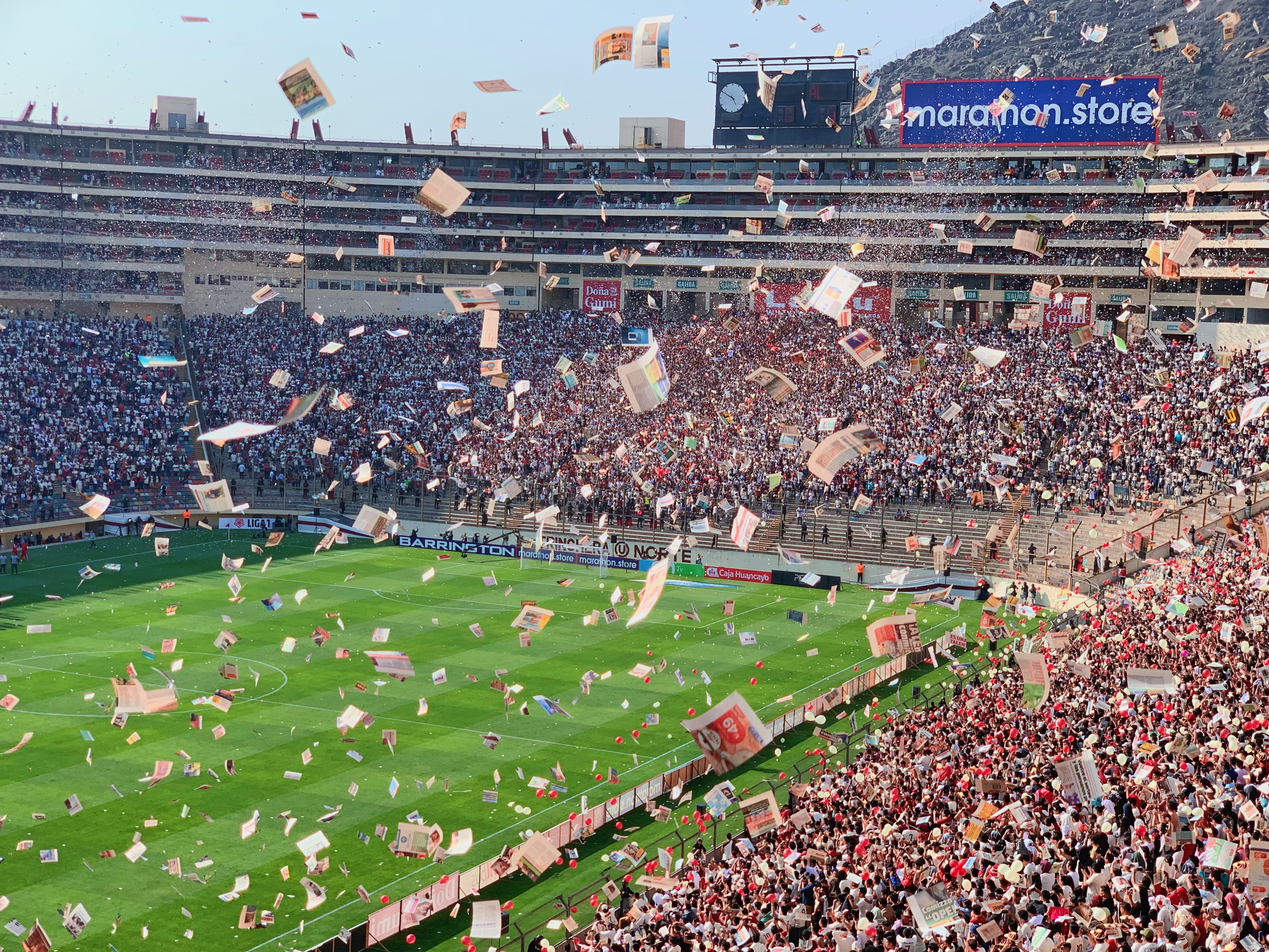
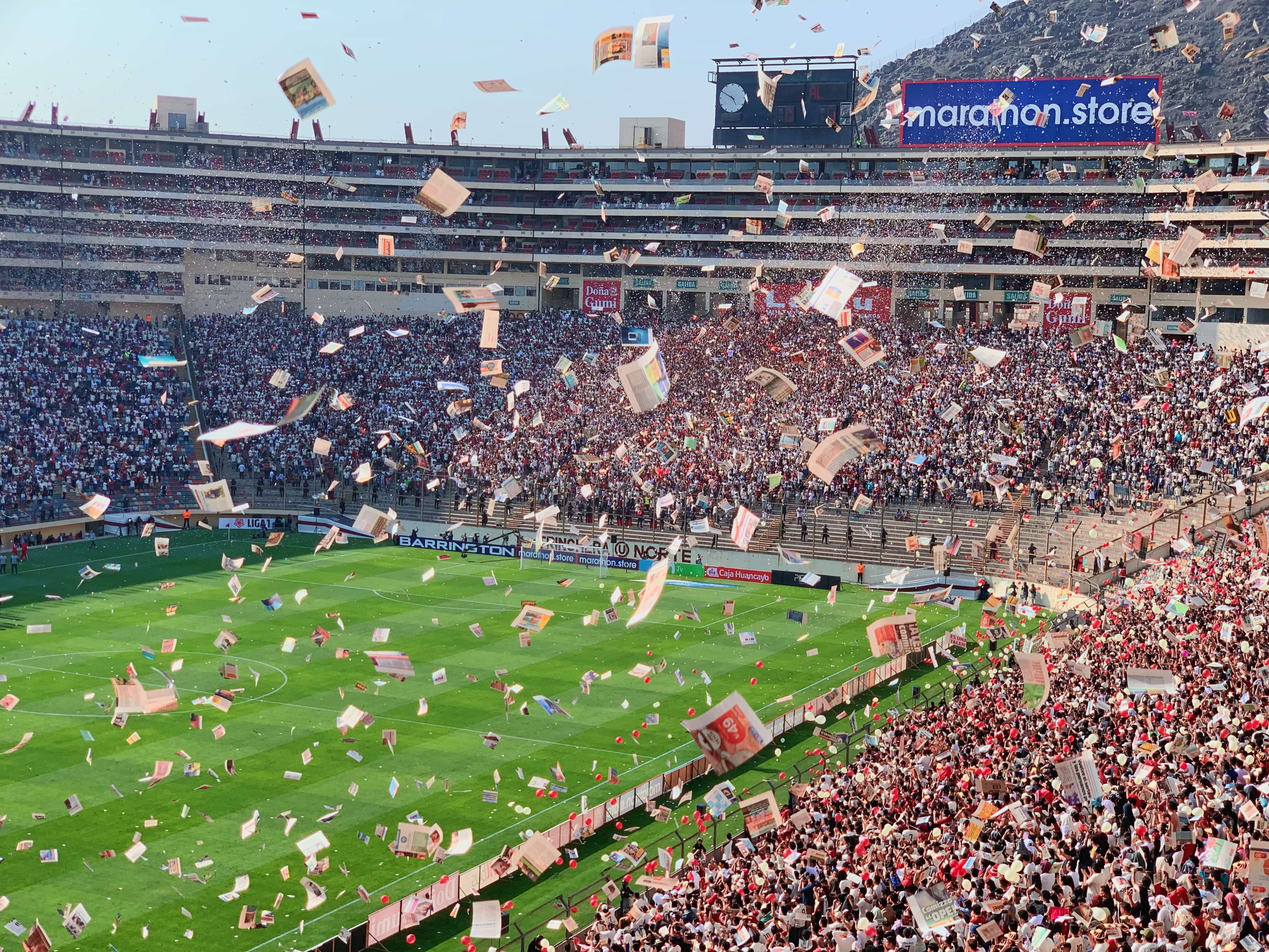
Optimisations des images et màj style hero header

diff --git a/css/styles.css b/css/styles.css
@@ -68,6 +68,11 @@ header img {
 }
 
 /* Hero Header */
+.hero-header img {
+  width: 100%;
+  height: auto;
+}
+
 /* Footer */
 .footer-menu {
   display: flex;

diff --git a/css/styles.scss b/css/styles.scss
@@ -80,7 +80,10 @@
 
 /* Hero Header */
 
-
+.hero-header img {
+  width: 100%;
+  height: auto;
+}
 
 /* Footer */
 
